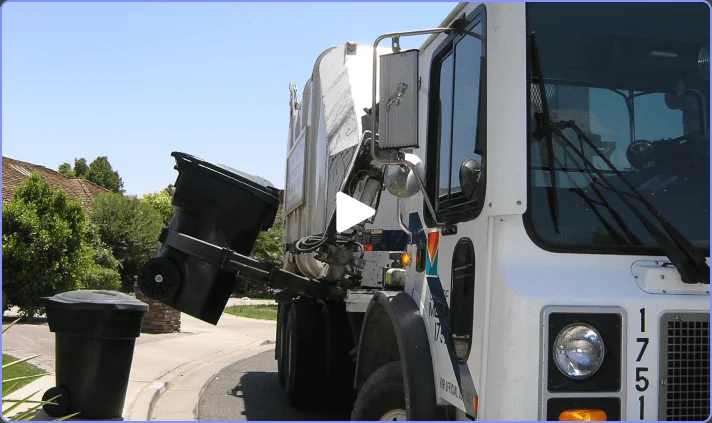
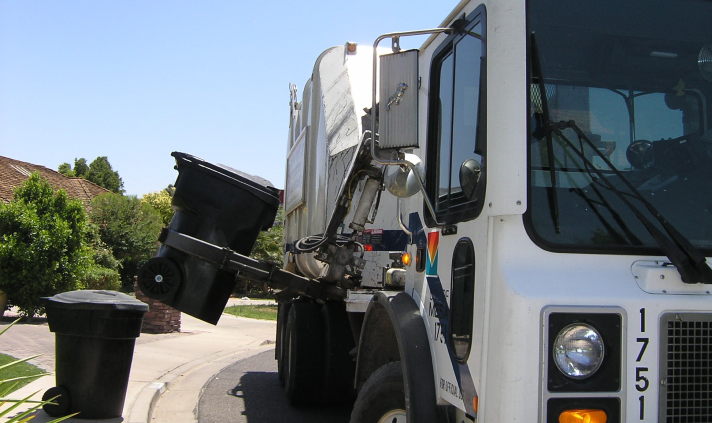
fix: исправляет баги слайдера, добавляет кнопку play на слайды

Changed region(s): [[0.0, 0.0, 1.0, 1.0], [0.4635, 0.4303, 0.5253, 0.5532]]

diff --git a/src/components/Recommendations/RecommendationPreview/style.module.scss b/src/components/Recommendations/RecommendationPreview/style.module.scss
@@ -1,5 +1,7 @@
 .card-container {
 	display: flex;
+	align-items: center;
+	justify-content: center;
 	position: relative;
 
 	& img {
@@ -23,7 +25,6 @@
 }
 
 .main-card-container {
-	flex-direction: column;
 	width: 100%;
 }
 
@@ -43,6 +44,17 @@
 	&_link {
 		text-decoration: none;
 		color: var(--color-text);
+
+		&-avatar {
+			flex: none;
+			display: inline-flex;
+			align-items: center;
+			justify-content: center;
+			width: 53px;
+			height: 53px;
+			border-radius: 100%;
+			background-color: var(--color-lilac);
+		}
 	}
 
 	&_title {
@@ -55,33 +67,35 @@
 		flex-direction: column;
 		font: var(--font-description-main);
 	}
+}
 
-	&>img {
-		width: auto;
+.card-image {
+	width: auto;
+
+	&_active {
+		border: 2px solid var(--color-lilac);
 	}
+}
+
+.card-icon-play {
+	position: absolute;
 }
 
 @media screen and (max-width: 1280px) {
-	.card-container {
-		& img {
-			max-height: 341px;
-		}
-	}
+	.card-image {
+		max-height: 341px;
+	}		
 }
 
-@media screen and (max-width: 835px) {
-	.card-container {
-		& img {
-			max-height: 261px;
-		}
+@media screen and (max-width: 920px) {
+	.card-image {
+		max-height: 261px;
 	}
 }
 
 @media screen and (max-width: 768px) {
-	.card-container {
-		& img {
-			max-height: 169px;
-		}
+	.card-image {
+		max-height: 200px;
 	}
 
 	.card__details {
@@ -91,6 +105,16 @@
 		&__container {
 			margin-left: 11px;
 		}
+	}
+
+	.card-icon-play {
+		width: 46px;
+	}
+}
+
+@media screen and (max-width: 601px) {
+	.card-image {
+		max-height: 169px;
 	}
 }
 

diff --git a/src/components/Recommendations/RecommendationPreview/index.tsx b/src/components/Recommendations/RecommendationPreview/index.tsx
@@ -2,6 +2,8 @@ import { useEffect, useState } from 'react';
 
 import Image from 'next/image';
 
+import play from '&/images/recommendations/play.svg';
+
 import IRecommendationPreview from './interface';
 import styles from './style.module.scss';
 
@@ -42,7 +44,7 @@ export default function RecommendationPreview({
 					<a
 						href={siteUrl}
 						target="_blank"
-						className={styles['card__details_link']}
+						className={`${styles['card__details_link']} ${styles['card__details_link-avatar']}`}
 					>
 						<Image src={icon} alt="avatar" />
 					</a>
@@ -64,14 +66,17 @@ export default function RecommendationPreview({
 					<Image
 						src={image}
 						alt="video-preview"
-						className={styles[`card-image`]}
+						className={`${styles[`card-image`]} ${styles[`card-image_active`]}`}
 					/>
+					<span className={styles['card-icon-play']}>
+						<Image src={play} alt="Воспроизведение видео" />
+					</span>
 				</div>
 				<div className={styles['card__details']}>
 					<a
 						href={siteUrl}
 						target="_blank"
-						className={styles['card__details_link']}
+						className={`${styles['card__details_link']} ${styles['card__details_link-avatar']}`}
 					>
 						<Image src={icon} alt="avatar" />
 					</a>

diff --git a/src/constants/StageCreate/index.ts b/src/constants/StageCreate/index.ts
@@ -32,7 +32,7 @@ export const stages: IStagesItem[] = [
 	},
 	{
 		id: 'eb449ef7-4aee-498d-905c-2c9ab550b388',
-		title: 'Вёрстка',
+		title: 'Верстка',
 		description:
 			'Трансформация визуальных концепций дизайна сайта в технически рабочие веб-страницы.',
 		icon: htmlIcon,

diff --git a/src/constants/Recommendations/index.ts b/src/constants/Recommendations/index.ts
@@ -10,7 +10,7 @@ import truck from '../../../public/images/recommendations/truck.svg';
 export const recommendationsPreviews: IRecomendationPreview[] = [
 	{
 		id: '1997bad5-2faa-460b-8a13-10e50a1fbb8f',
-		title: 'Василёк',
+		title: 'Василек',
 		info: 'Ивановский трикотаж',
 		image: leftSlide,
 		isActive: false,

diff --git a/src/components/Navbar/style.module.scss b/src/components/Navbar/style.module.scss
@@ -136,7 +136,7 @@
 		display: flex;
 		justify-content: space-between;
 		align-items: center;
-		width: 92%;
+		width: 90%;
 
 		& > * {
 			display: grid;
